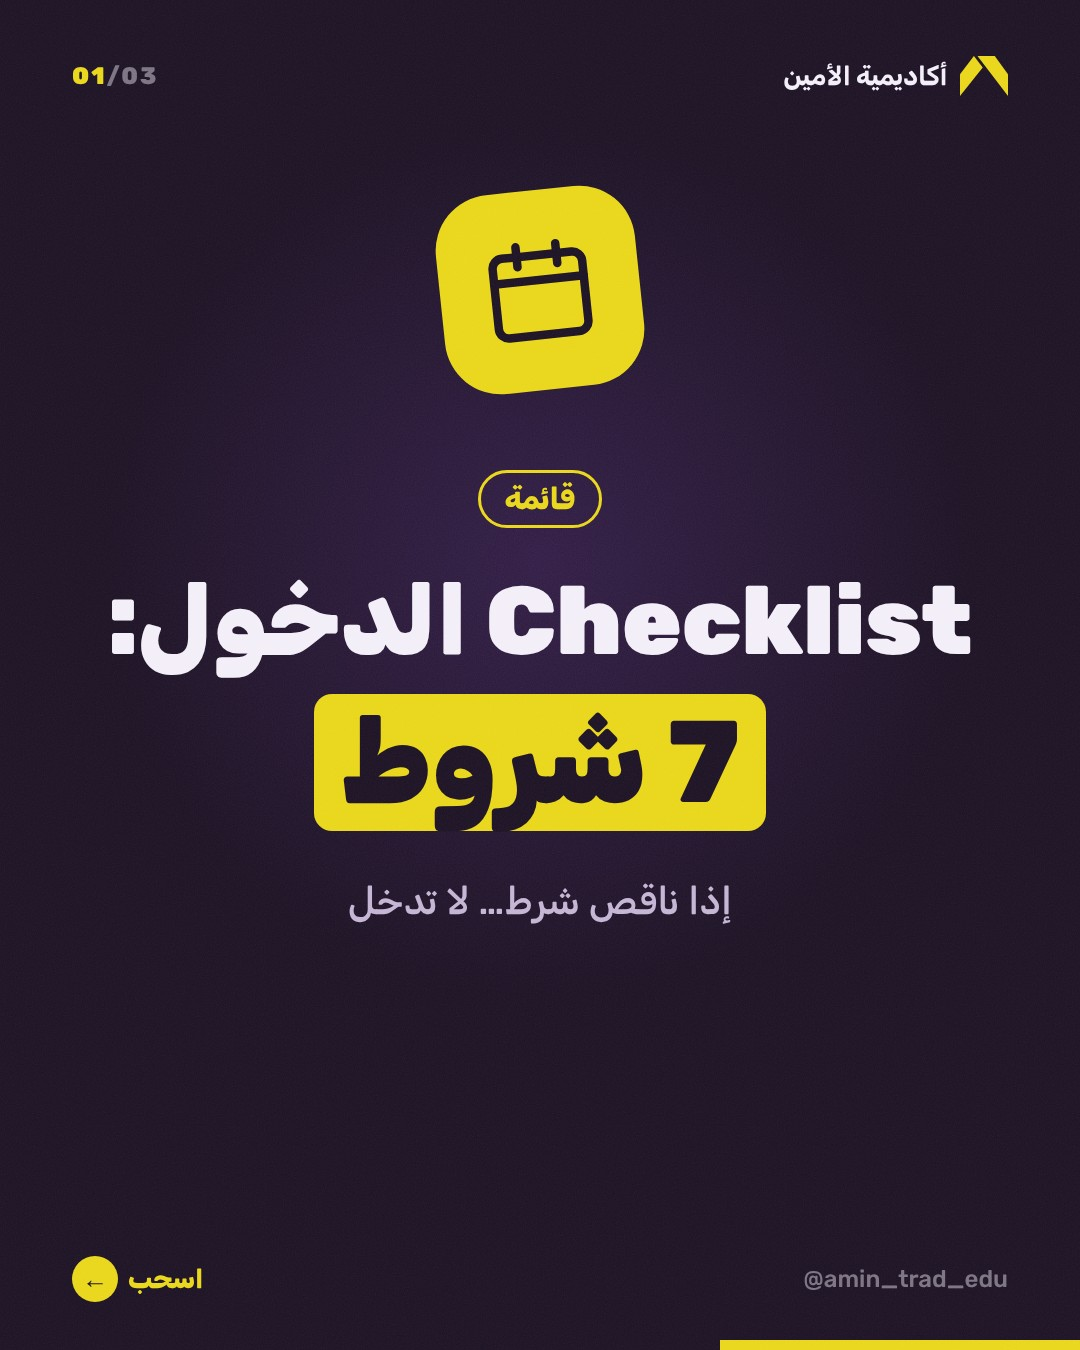
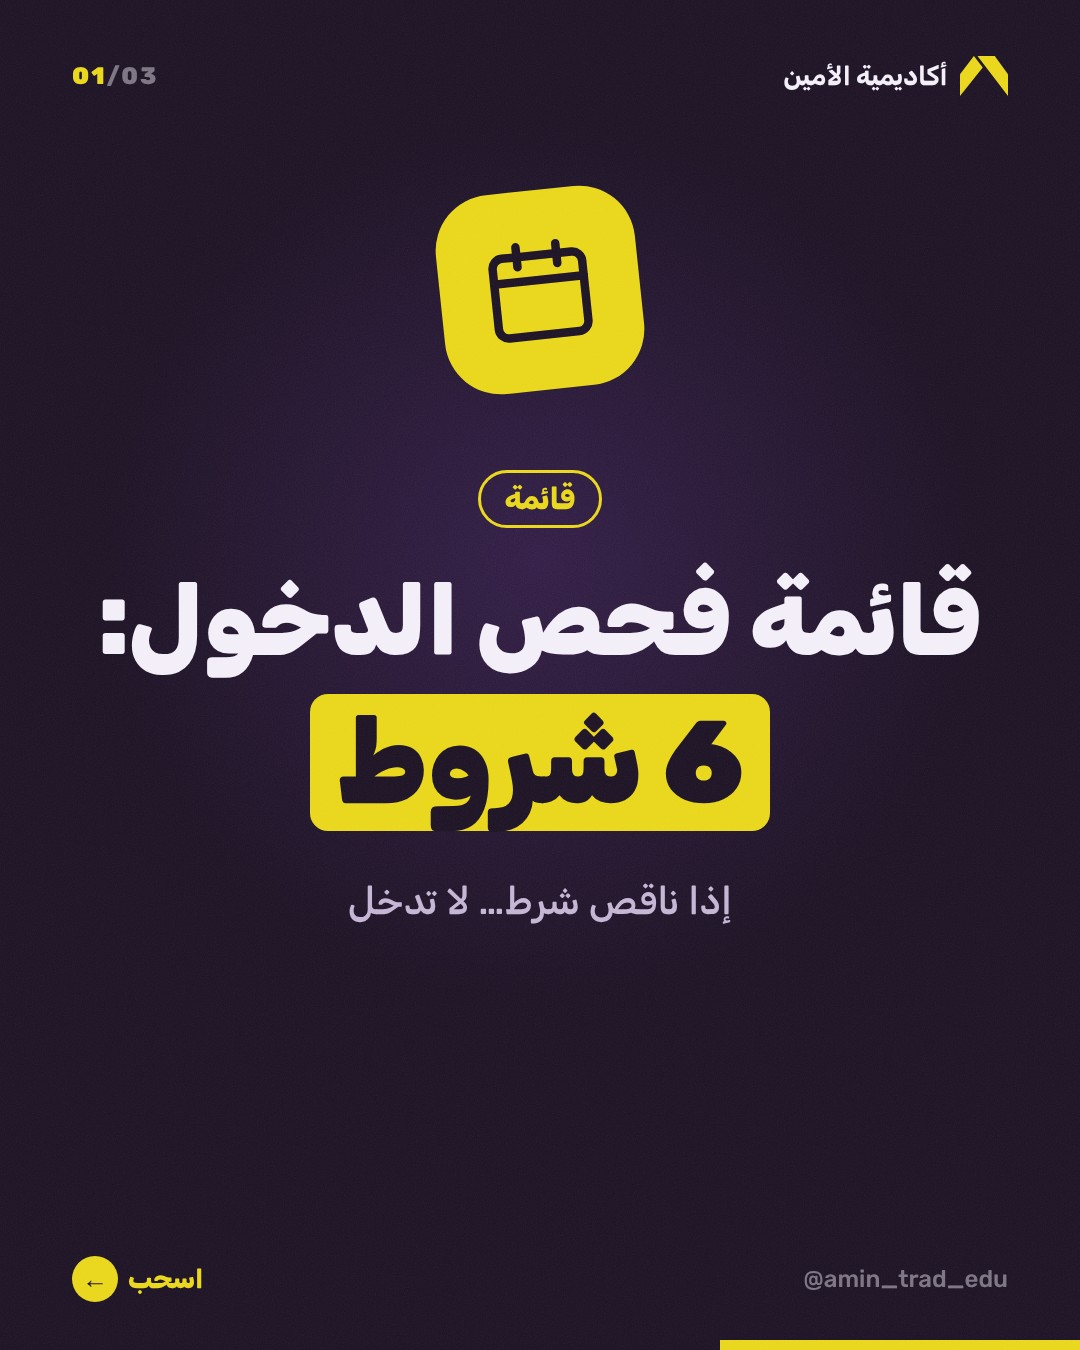
Fix layout of b250 posts 61, 190, 213
Claude-Session: https://claude.ai/code/session_01XnadP7Md9X1sxfrvtaMyLu

Changed region(s): [[0.0917, 0.4044, 0.9167, 0.6222], [0.3667, 0.5289, 0.7333, 0.6222]]

diff --git a/b250/src/b250.js b/b250/src/b250.js
@@ -61,7 +61,7 @@ const B250=[
 {n:58,kick:'صفحة وحدة',t:['خطة تداول'],hl:'بصفحة وحدة',t2:'شلون تكتبها',sub:'كل اللي تحتاجه… بورقة وحدة',items:[['list','شنو تتداول','الأزواج والجلسات.'],['target','شروط الدخول','3–4 شروط واضحة.'],['shield','إدارة المخاطر','النسبة والحد اليومي والشهري.'],['clock','شروط الخروج','الهدف والستوب والتريلنگ.'],['book','المراجعة','كل أسبوع.']],tip:'إذا ما تقدر تكتب خطتك بصفحة… ما عندك خطة.',q:'عندك خطة مكتوبة؟'},
 {n:59,kick:'لا توصلها',t:['خسارة 50%'],hl:'تحتاج 100%',t2:'',sub:'ليش الخسارة الكبيرة صعب ترجع منها',items:[['calc','خسرت 20%؟ تحتاج 25%','بعدها قابلة.'],['trenddown','خسرت 50%؟ تحتاج 100%','تضاعف حسابك حتى ترجع.'],['alert','خسرت 80%؟ تحتاج 400%','تقريباً مستحيل.'],['shield','الحل: لا توصلها','حد خسارة صارم.']],tip:'حماية الحساب أسهل بكثير من ترجيعه.',q:'تعرف هالأرقام قبل؟'},
 {n:60,kick:'فخ الأرقام',t:['نسبة نجاح'],hl:'عالية',t2:'ممكن تكون فخ',sub:'90% نجاح وحسابك يخسر؟ ممكن',items:[['target','تربح 9 صفقات صغيرة','كل وحدة 10$.'],['trenddown','وتخسر وحدة كبيرة','100$… فتطلع خسران.'],['scale','المهم الربح مقابل الخسارة','مو عدد الصفقات الرابحة.'],['check','احسب القيمة المتوقعة','هي اللي تحچي الحقيقة.']],tip:'لا تنبهر بنسبة النجاح… اسأل عن الخسارة.',q:'شكد نسبة نجاحك؟'},
-{n:61,kick:'رقم المحترفين',t:['القيمة المتوقعة'],hl:'Expectancy',t2:'ببساطة',sub:'رقم واحد يگلك نظامك يربح لو لا',items:[['calc','المعادلة','(نسبة الربح × متوسط الربح) − (نسبة الخسارة × متوسط الخسارة)'],['check','مثال: 40% × 200 − 60% × 100','= 80 − 60 = +20$ لكل صفقة.'],['trend','موجب = نظام رابح','على المدى الطويل.'],['trenddown','سالب = نظام خاسر','مهما ربحت بالبداية.']],tip:'احسبها من آخر 50 صفقة إلك.',q:'تعرف القيمة المتوقعة لنظامك؟'},
+{n:61,kick:'رقم المحترفين',t:['القيمة المتوقعة'],hl:'Expectancy',t2:'ببساطة',sub:'رقم واحد يگلك نظامك يربح لو لا',items:[['calc','المعادلة','(نسبة الربح × متوسط الربح) − (نسبة الخسارة × متوسط الخسارة)'],['check','مثال: تربح 40% من صفقاتك بمتوسط 200$','وتخسر 60% بمتوسط 100$ = ربح 20$ لكل صفقة.'],['trend','موجب = نظام رابح','على المدى الطويل.'],['trenddown','سالب = نظام خاسر','مهما ربحت بالبداية.']],tip:'احسبها من آخر 50 صفقة إلك.',q:'تعرف القيمة المتوقعة لنظامك؟'},
 {n:62,kick:'قبل الفلوس',t:['ليش لازم تختبر'],hl:'استراتيجيتك',t2:'قبل الفلوس؟',sub:'الاختبار أرخص من الخسارة',items:[['chart','تعرف إذا تربح أصلاً','بالأرقام مو بالإحساس.'],['brain','تبني ثقة','ما تتردد وقت الصفقة.'],['note','تعرف أسوأ سيناريو','أطول سلسلة خسارة.'],['check','تكتشف الأخطاء مبكراً','قبل ما تكلفك.']],tip:'اختبر 100 صفقة… وبعدها قرر.',q:'اختبرت استراتيجيتك قبل؟'},
 {n:63,kick:'خطوة بخطوة',t:['الباك تيست'],hl:'بإيدك',t2:'',sub:'بدون برامج… بس شارت وإكسل',items:[['monitor','ارجع بالشارت للوراء','6 أشهر أو سنة.'],['chart','قدّم شمعة شمعة','لا تشوف المستقبل.'],['note','سجّل كل إشارة','دخول، ستوب، هدف، نتيجة.'],['calc','احسب النتائج','نسبة النجاح والقيمة المتوقعة.']],tip:'TradingView فيه أداة Replay تسهّلها كثير.',q:'سويت باك تيست قبل؟'},
 {n:64,kick:'الحكم الصح',t:['شكد صفقة'],hl:'تحتاج',t2:'حتى تحكم على نظامك؟',sub:'10 صفقات ما تگول شي',items:[['alert','10 صفقات = صدفة','ممكن تخسر 7 بنظام ممتاز.'],['chart','50 صفقة = صورة أولية','بدت تبين.'],['check','100 صفقة = حكم','الأرقام صارت تعني شي.'],['clock','لا تغيّر قبل','كل تغيير يرجعك للصفر.']],tip:'أغلب الناس يغيرون نظامهم قبل ما يعطوه فرصة.',q:'شكد صفقة جربت بنظامك؟'},
@@ -192,7 +192,7 @@ const B250=[
 {n:187,kick:'استراتيجية',t:['استراتيجية'],hl:'جلسة لندن',t2:'',sub:'استخدم نطاق آسيا',items:[['moon','حدد قمة وقاع آسيا','قبل افتتاح لندن.'],['bolt','لندن غالباً تكسر النطاق','باتجاه واحد.'],['alert','انتبه للاصطياد','كسر كاذب أولاً أحياناً.'],['check','ادخل بعد التأكيد','ويّا الاتجاه العام.']],tip:'جرّبها على تجريبي شهر قبل الحقيقي.',q:'تتداول افتتاح لندن؟'},
 {n:188,kick:'البساطة',t:['التداول على'],hl:'الفريم اليومي بس',t2:'',sub:'شمعة وحدة باليوم… وقرار هادي',items:[['clock','وقت قليل','تحليل بعد إغلاق اليوم.'],['shield','ضوضاء أقل','إشارات أوضح.'],['pct','ستوب أوسع','فاحسب اللوت صح.'],['brain','ضغط نفسي أقل','ما تراقب كل دقيقة.']],tip:'كثير من المحترفين يتداولون اليومي بس.',q:'جربت تتداول اليومي بس؟'},
 {n:189,kick:'للمبتدئ',t:['استراتيجية بسيطة'],hl:'بدون مؤشرات',t2:'',sub:'3 خطوات بس',items:[['cal','الترند على اليومي','صاعد؟ دوّر شراء بس.'],['zone','منطقة دعم على 4 ساعات','السعر رجعلها.'],['candle','شمعة رفض','ادخل بعد إغلاقها.'],['shield','الستوب تحت المنطقة','والهدف ضعف الستوب.']],tip:'البساطة مو ضعف… هي اللي تخليك تلتزم.',q:'تحب الاستراتيجيات البسيطة؟'},
-{n:190,kick:'قائمة',t:['Checklist الدخول:'],hl:'7 شروط',t2:'',sub:'إذا ناقص شرط… لا تدخل',items:[['cal','ماكو خبر قريب','نص ساعة على الأقل.'],['trend','ويّا الترند الكبير','اليومي أو 4 ساعات.'],['zone','عند منطقة مهمة','دعم، مقاومة، أو طلب.'],['candle','تأكيد واضح','شمعة أو كسر.'],['shield','ستوب ونسبة 1:2','على الأقل.'],['check','المخاطرة 1%','والمزاج زين.']],tip:'اطبع القائمة… وعلّم عليها قبل كل صفقة.',q:'عندك Checklist؟'},
+{n:190,kick:'قائمة',t:['قائمة فحص الدخول:'],hl:'6 شروط',t2:'',sub:'إذا ناقص شرط… لا تدخل',items:[['cal','ماكو خبر قريب','نص ساعة على الأقل.'],['trend','ويّا الترند الكبير','اليومي أو 4 ساعات.'],['zone','عند منطقة مهمة','دعم، مقاومة، أو طلب.'],['candle','تأكيد واضح','شمعة أو كسر.'],['shield','ستوب ونسبة 1:2','على الأقل.'],['check','المخاطرة 1%','والمزاج زين.']],tip:'اطبع القائمة… وعلّم عليها قبل كل صفقة.',q:'عندك Checklist؟'},
 {n:191,kick:'بناء',t:['شلون تبني'],hl:'استراتيجيتك الخاصة',t2:'',sub:'خطوات واضحة',items:[['list','اختار الأسلوب','سكالب، يومي، سوينگ.'],['chart','حدد الأدوات','2–3 بس.'],['note','اكتب القواعد','دخول وخروج ومخاطرة.'],['monitor','اختبرها','باك تيست وتجريبي.'],['trend','طوّرها بالأرقام','مو بالإحساس.']],tip:'الاستراتيجية اللي تبنيها بإيدك… تثق بيها أكثر.',q:'عندك استراتيجيتك الخاصة؟'},
 {n:192,kick:'البساطة',t:['ليش الاستراتيجية'],hl:'البسيطة تربح أكثر؟',t2:'',sub:'المعقد يبين ذكي… بس ما يشتغل',items:[['check','سهلة الالتزام','تعرف شنو تسوي بالضبط.'],['eyeoff','إشارات أقل تضارب','قرار أوضح.'],['chart','سهلة الاختبار','تعرف أرقامها.'],['brain','ضغط أقل','تفكير أقل وقت الصفقة.']],tip:'إذا ما تقدر تشرح استراتيجيتك بدقيقة… معقدة.',q:'استراتيجيتك بسيطة لو معقدة؟'},
 {n:193,kick:'آلي',t:['التداول الآلي:'],hl:'إيجابيات وسلبيات',t2:'',sub:'الروبوت ما يخاف… بس ما يفكر',items:[['check','بدون مشاعر','ينفذ القواعد بالضبط.'],['clock','يشتغل 24 ساعة','ما يتعب.'],['alert','ما يتكيف','السوق يتغير وهو لا.'],['eyeoff','لازم تراقبه','الأخطاء التقنية تصير.']],tip:'الروبوت أداة… مو مدير حساب.',q:'تستخدم تداول آلي؟'},
@@ -216,7 +216,7 @@ const B250=[
 {n:210,kick:'قرار مهم',t:['شلون تختار'],hl:'البروكر',t2:'7 أسئلة',sub:'اسألها قبل ما تودع',items:[['shield','مرخص من جهة قوية؟','مثل FCA أو ASIC.'],['calc','شكد السبريد والعمولة؟','على أزواجك.'],['bank','السحب سهل وسريع؟','جرّبه بمبلغ صغير.'],['users','الدعم الفني يرد؟','وبلغتك؟'],['alert','أكو شكاوي كثيرة؟','دوّر بالإنترنت.']],tip:'البروكر شريكك… اختاره بعناية.',q:'شنو أهم شي بالبروكر إلك؟'},
 {n:211,kick:'الحسابات',t:['أنواع الحسابات:'],hl:'ستاندرد، ECN، سنت',t2:'',sub:'يا نوع يناسبك؟',items:[['bank','ستاندرد','سبريد أعلى بدون عمولة.'],['calc','ECN أو Raw','سبريد قليل ويّا عمولة.'],['pct','سنت','مبالغ صغيرة جداً للتعلم.'],['check','للمبتدئ: سنت أو ستاندرد','ببساطتهم.']],tip:'كل ما تتداول أكثر… حساب ECN يصير أوفر.',q:'شنو نوع حسابك؟'},
 {n:212,kick:'التعلم',t:['الحساب التجريبي:'],hl:'شلون تستفاد منه صح',t2:'',sub:'مو لعبة… هو تدريب',items:[['bank','حط مبلغ واقعي','نفس اللي راح تودعه.'],['list','نفس القواعد','كأنه حقيقي.'],['note','سجّل الصفقات','بنفس الجدية.'],['clock','حدد مدة','شهر أو 50 صفقة.']],tip:'التجريبي بمليون دولار يعلمك عادات غلط.',q:'شكد قعدت على التجريبي؟'},
-{n:213,kick:'أوامر',t:['أوامر الدخول:'],hl:'Market و Limit و Stop',t2:'',sub:'شلون تدخل الصفقة',items:[['bolt','Market','دخول فوري بسعر السوق.'],['zone','Limit','دخول بسعر أفضل: شراء تحت السعر أو بيع فوقه.'],['trend','Stop','دخول بعد الكسر: شراء فوق السعر أو بيع تحته.'],['check','الأوامر المعلقة','تتداول وانت مو قاعد.']],tip:'الأمر المعلّق يمنع الاندفاع.',q:'تستخدم الأوامر المعلقة؟'},
+{n:213,kick:'أوامر',t:['أوامر الدخول'],hl:'الثلاثة',t2:'Market · Limit · Stop',sub:'شلون تدخل الصفقة',items:[['bolt','Market','دخول فوري بسعر السوق.'],['zone','Limit','دخول بسعر أفضل: شراء تحت السعر أو بيع فوقه.'],['trend','Stop','دخول بعد الكسر: شراء فوق السعر أو بيع تحته.'],['check','الأوامر المعلقة','تتداول وانت مو قاعد.']],tip:'الأمر المعلّق يمنع الاندفاع.',q:'تستخدم الأوامر المعلقة؟'},
 {n:214,kick:'المنصة',t:['شلون تقرا'],hl:'شاشة الصفقة',t2:'بالمنصة',sub:'كل رقم إله معنى',items:[['bank','الرصيد Balance','فلوسك بدون الصفقات المفتوحة.'],['chart','حقوق الملكية Equity','الرصيد + أرباح أو خسائر مفتوحة.'],['shield','الهامش Margin','الفلوس المحجوزة للصفقات.'],['alert','الهامش الحر','إذا قل كثير… خطر.']],tip:'راقب الـ Equity مو الـ Balance.',q:'تعرف الفرق بين Balance و Equity؟'},
 {n:215,kick:'سرعة',t:['أهم 5 اختصارات'],hl:'بـ TradingView',t2:'',sub:'وفّر وقتك',items:[['chart','Alt + H','خط أفقي.'],['trend','Alt + T','خط ترند.'],['bell','Alt + A','تنبيه سعر.'],['monitor','Shift + F','عرض الشاشة الكاملة.'],['layers','Alt + F','فيبوناتشي.']],tip:'على الماك: Option بدل Alt.',q:'تستخدم الاختصارات؟'},
 {n:216,kick:'تنظيم',t:['شلون ترتب'],hl:'Watchlist ذكية',t2:'',sub:'قائمة مراقبة تخدمك',items:[['list','أزواجك الأساسية','2–5 بس.'],['globe','مؤشر الدولار','للصورة الكبيرة.'],['gold','الذهب','حتى لو ما تتداوله.'],['check','نظّفها كل شهر','شيل اللي ما تحتاجه.']],tip:'القائمة القصيرة = تركيز أكبر.',q:'كم زوج بقائمتك؟'},

diff --git a/b250/src/c250.html b/b250/src/c250.html
@@ -66,7 +66,7 @@ const tb=(c)=>`<span class="chip">${P.kick}</span>
 if(cov==='photo'){S.push(`<div class="glow" style="left:-380px;top:420px"></div><img src="glow.png" class="z" style="left:-190px;bottom:0;height:700px;opacity:.7;z-index:2"><img src="amin.png" class="z" style="left:-150px;bottom:0;height:680px;z-index:3;-webkit-mask-image:linear-gradient(to bottom,#000 70%,transparent 100%)"><div class="z cv-photo" style="top:200px;right:72px;width:600px;z-index:6">${tb()}</div>`);}
 else if(cov==='badge'){S.push(`<div class="glow" style="left:40px;top:60px"></div><div class="z" style="top:190px;left:0;right:0;display:flex;justify-content:center"><div style="width:200px;height:200px;border-radius:56px;background:var(--acc);display:grid;place-items:center;transform:rotate(-6deg)"><svg viewBox="0 0 24 24" style="width:120px;height:120px;fill:none;stroke:var(--icfg);stroke-width:1.7;stroke-linecap:round;stroke-linejoin:round">${I[P.items[0][0]]||I.check}</svg></div></div><div class="z" style="top:470px;right:72px;left:72px;text-align:center">${tb(1)}</div>`);}
 else{S.push(`<div class="glow" style="left:40px;top:250px"></div><img src="${T.logo}" style="position:absolute;width:900px;left:-260px;bottom:-220px;opacity:.06"><div class="z" style="top:270px;right:72px;left:72px">${tb()}</div>`);}
-const n=P.items.length;const fs=n>4?{h:40,p:31,g:16,pad:'24px 28px',mi:84}:{h:46,p:34,g:22,pad:'30px 32px',mi:96};
+const n=P.items.length;const fs=n>5?{h:36,p:28,g:12,pad:'18px 26px',mi:72}:n>4?{h:40,p:31,g:16,pad:'24px 28px',mi:84}:{h:46,p:34,g:22,pad:'30px 32px',mi:96};
 S.push(`<div class="glow" style="right:-300px;top:300px"></div>
  <div class="z" style="top:150px;right:72px;left:72px"><div style="font-weight:800;font-size:34px;color:var(--sub)">${P.kick}</div><div style="font-weight:900;font-size:58px;line-height:1.2;margin-top:6px">${P.head||P.t.join(' ')+' <span class=y>'+P.hl+'</span>'}</div></div>
  <div class="z" style="top:${P.head&&P.head.length>30?400:360}px;right:72px;left:72px;display:flex;flex-direction:column;gap:${fs.g}px">
